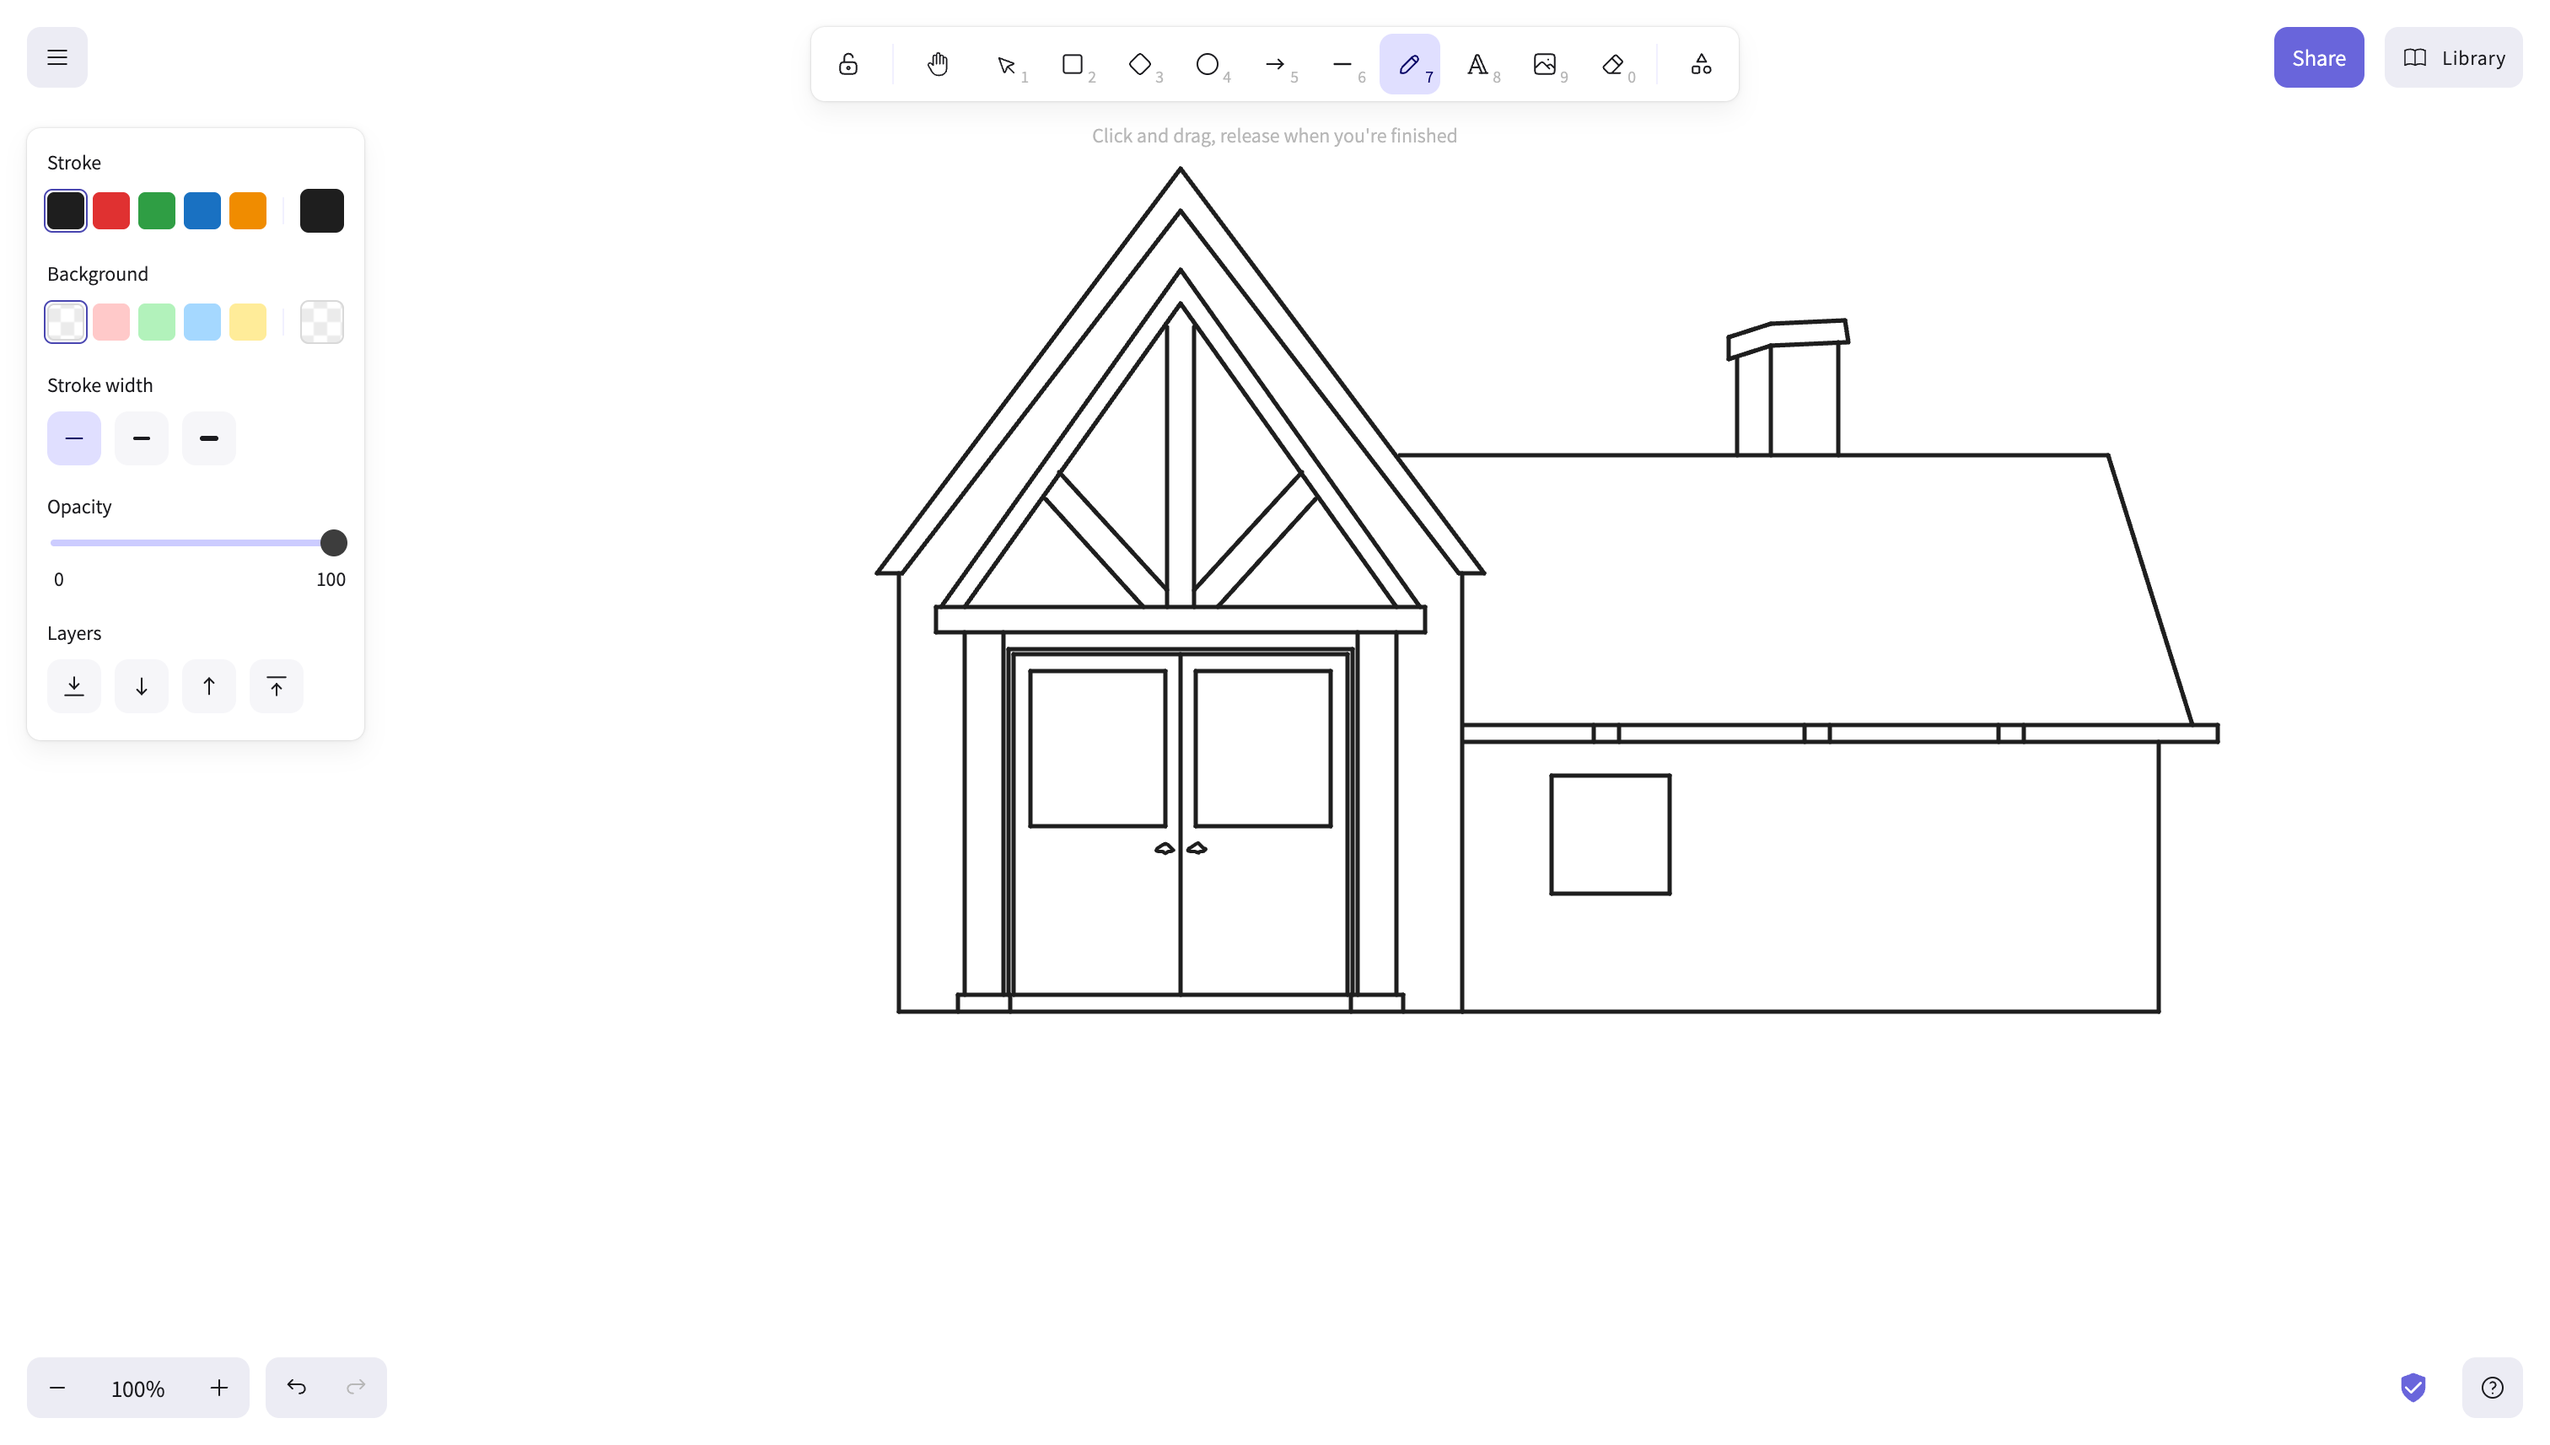
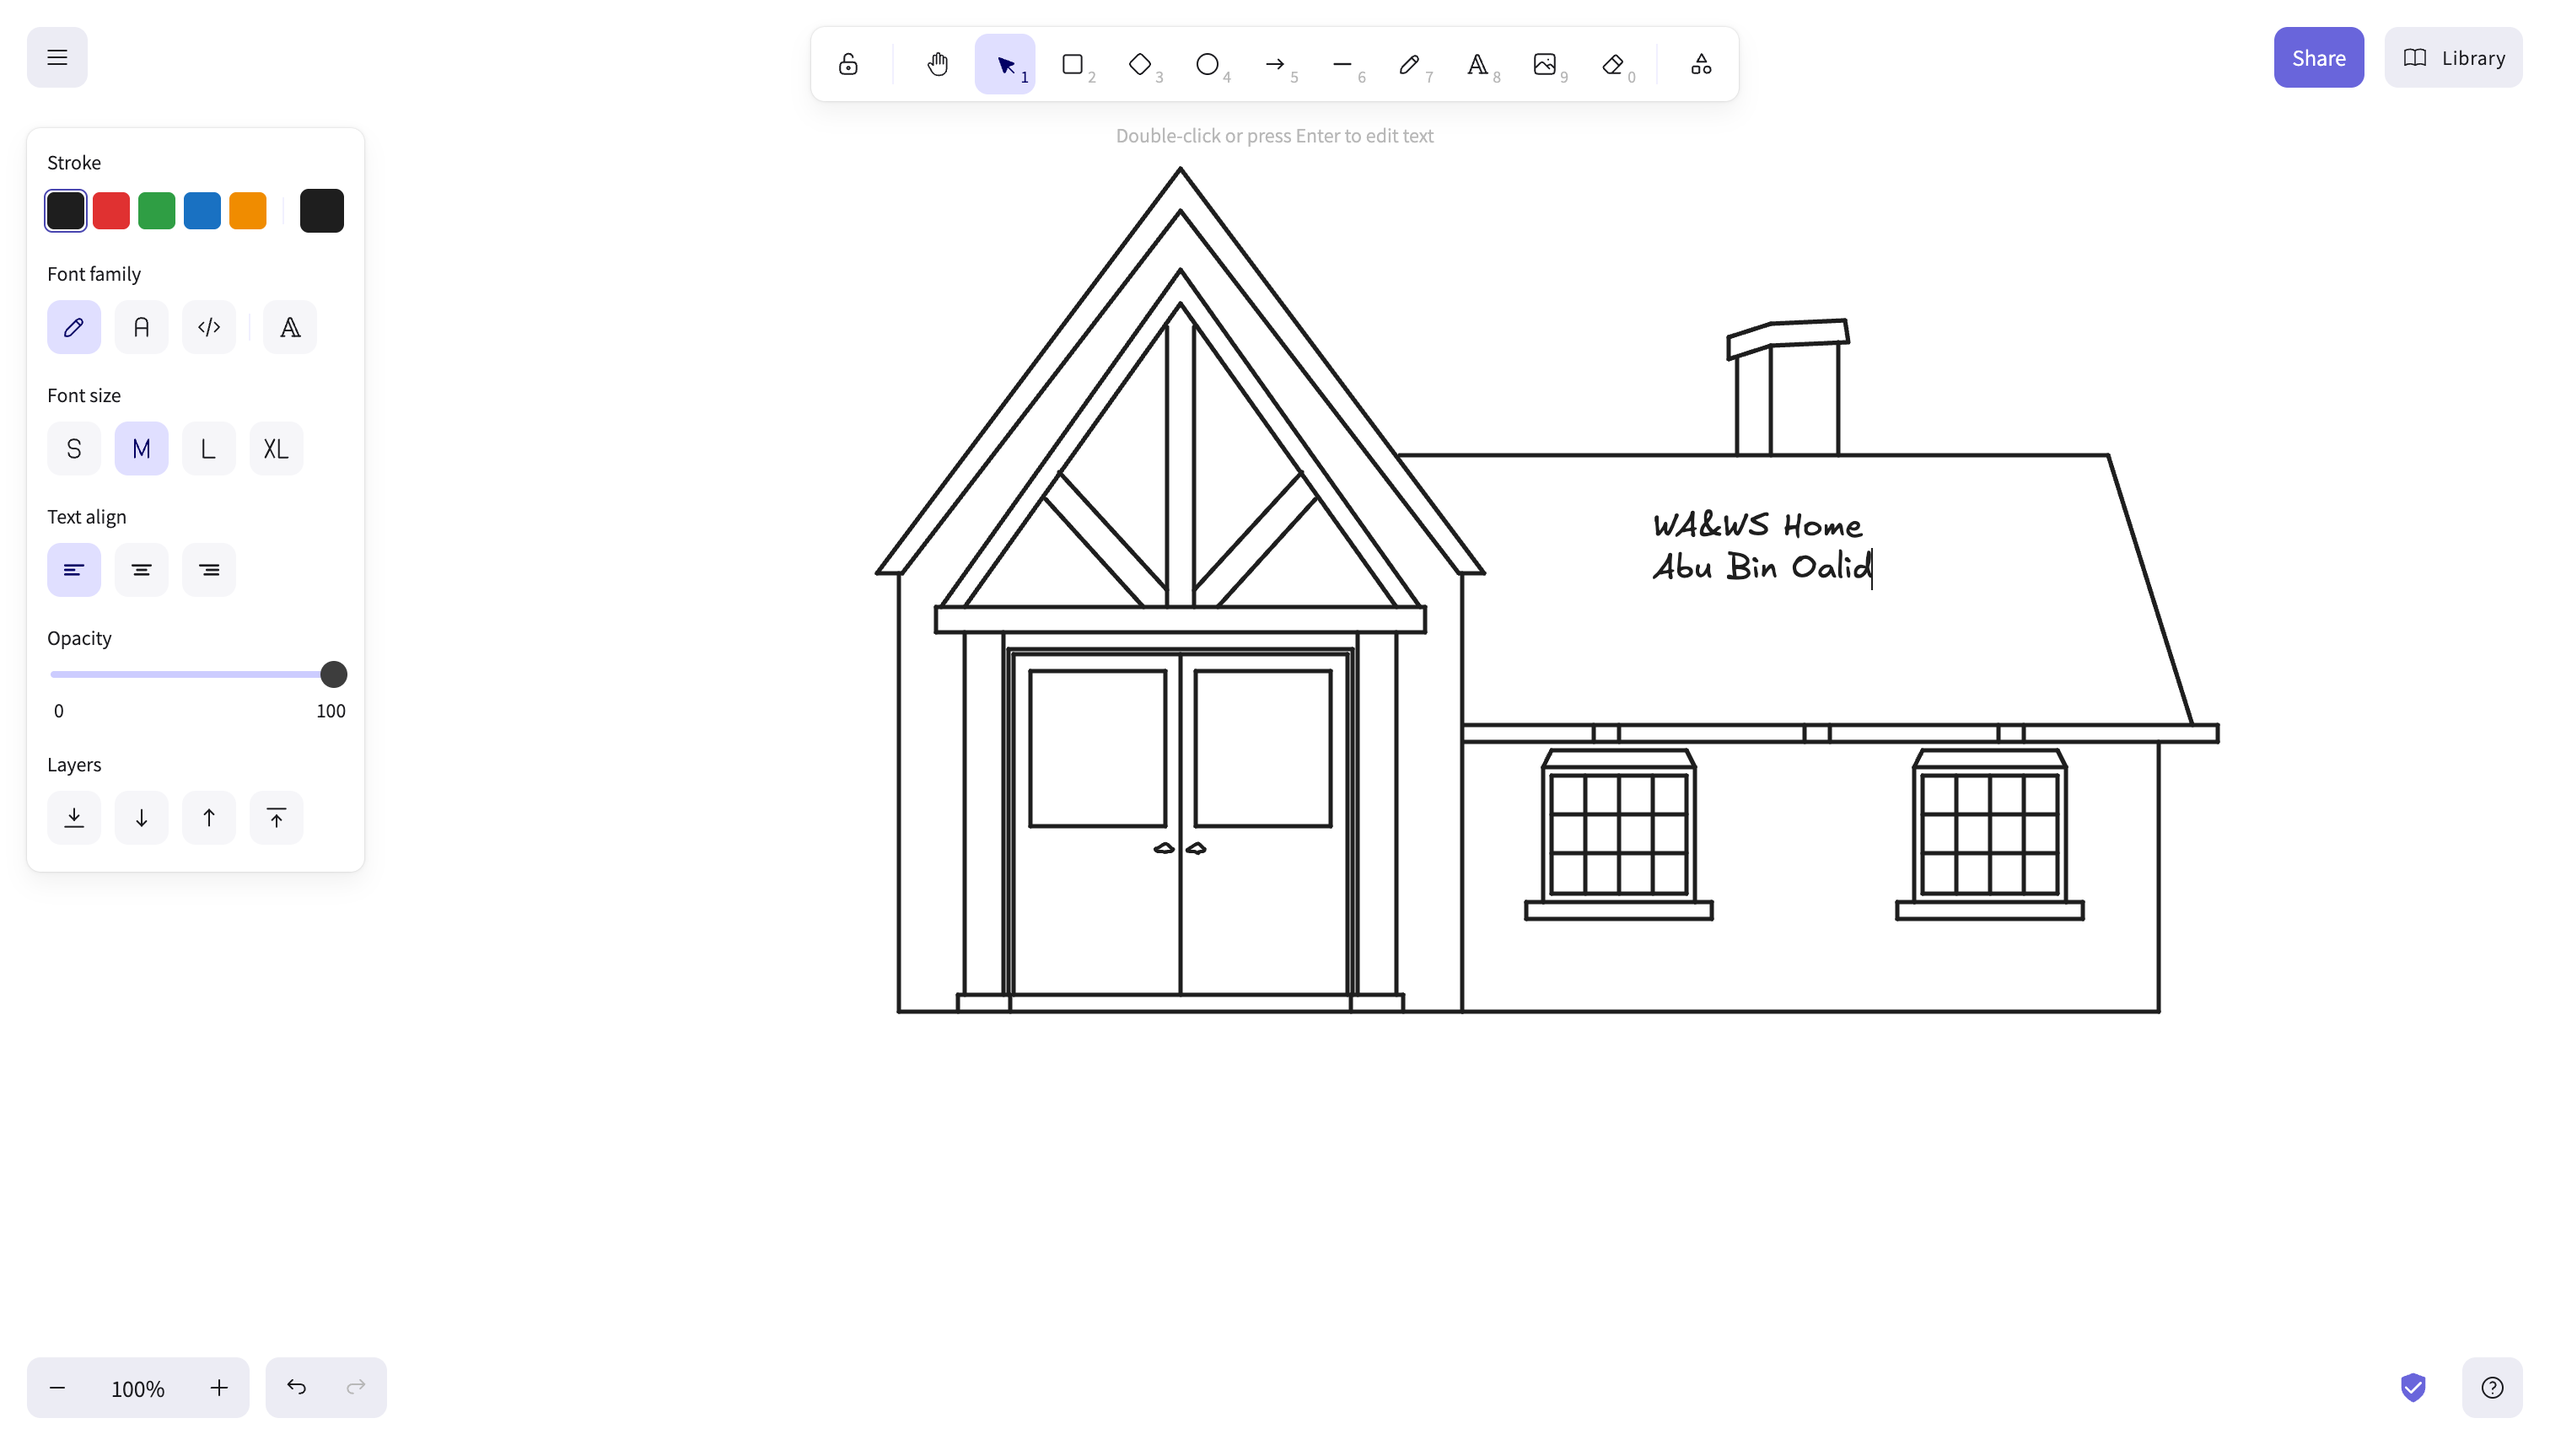
update house

diff --git a/house2.ts b/house2.ts
@@ -4,7 +4,7 @@ async function draw() {
     const openBrowser = true; // Set to false to run in headless mode
     const browser = await puppeteer.launch({
         headless: !openBrowser,
-        slowMo: (openBrowser) ? 0 : 0,
+        slowMo: (openBrowser) ? 100 : 0,
         args: [
             "--no-sandbox", 
             "--disable-setuid-sandbox",
@@ -23,7 +23,7 @@ async function draw() {
     // drawing a house
     const startX = 700;
     const startY = 100;
-    let drawSteps = (openBrowser) ? 1 : 1;
+    let drawSteps = (openBrowser) ? 5 : 1;
 
     let commonMoveOptions = {
         steps: drawSteps,
@@ -349,24 +349,20 @@ async function draw() {
     await page.mouse.up();
 
     //step 10
-
-    // await page.mouse.move(startX + 245, startY + 330, commonMoveOptions);
-    await page.mouse.move(startX + 220, startY + 360, commonMoveOptions);
-    await page.mouse.down();
-    await page.mouse.move(startX + 300, startY + 360, commonMoveOptions);
-    await page.mouse.up();
-    await page.mouse.down();
-    await page.mouse.move(startX + 300, startY + 430, commonMoveOptions);
-    await page.mouse.up();
-    await page.mouse.down();
-    await page.mouse.move(startX + 220, startY + 430, commonMoveOptions);
-    await page.mouse.up();
-    await page.mouse.down();
-    await page.mouse.move(startX + 220, startY + 360, commonMoveOptions);
-    await page.mouse.up();
-
-    await page.mouse.move(startX + 240, startY + 360, commonMoveOptions);
+    // window box
+    await windowBox(page, startX + 220, startX + 300, startY + 360, startY + 430, commonMoveOptions);
+    await windowBox(page, startX + 440, startX + 520, startY + 360, startY + 430, commonMoveOptions);
     
+
+    // press on text
+    await page.keyboard.press("8");
+    await page.mouse.move(startX + 280, startY + 200, commonMoveOptions);
+    await page.mouse.down();
+    await page.mouse.up();
+
+    await page.keyboard.type("WA&WS Home\nAbu Bin Oalid", {
+        delay: 100,
+    });
     
 
     await page.screenshot({ path: "house2.png" });
@@ -380,6 +376,96 @@ async function mouseUpDown(page: any) {
     await page.mouse.down();
     await page.mouse.up();
     
+}
+
+async function windowBox(page:any, startX: number, endX: number, startY: number, endY: number, commonMoveOptions: any) {
+
+    await page.mouse.move(startX-5, startY-5, commonMoveOptions);
+    await page.mouse.down();
+    await page.mouse.move(endX+5, startY-5, commonMoveOptions);
+    await page.mouse.up();
+    await page.mouse.down();
+    await page.mouse.move(endX+5, endY+5, commonMoveOptions);
+    await page.mouse.up();
+    await page.mouse.down();
+    await page.mouse.move(startX-5, endY+5, commonMoveOptions);
+    await page.mouse.up();
+    await page.mouse.down();
+    await page.mouse.move(startX-5, startY-5, commonMoveOptions);
+    await page.mouse.up();
+
+    await page.mouse.move(startX-5, endY+5, commonMoveOptions);
+    await page.mouse.down();
+    await page.mouse.move(startX-15, endY+5, commonMoveOptions);
+    await page.mouse.up();
+    await page.mouse.move(startX-15, endY+5, commonMoveOptions);
+    await page.mouse.down();
+    await page.mouse.move(startX-15, endY+15, commonMoveOptions);
+    await page.mouse.up();
+    await page.mouse.down();
+    await page.mouse.move(endX+15, endY+15, commonMoveOptions);
+    await page.mouse.up();
+    await page.mouse.down();
+    await page.mouse.move(endX+15, endY+5, commonMoveOptions);
+    await page.mouse.up();
+    await page.mouse.down();
+    await page.mouse.move(endX+5, endY+5, commonMoveOptions);
+    await page.mouse.up();
+
+    //window top start
+    await page.mouse.move(startX-5, startY-5, commonMoveOptions);
+    await page.mouse.down();
+    await page.mouse.move(startX, startY-15, commonMoveOptions);
+    await page.mouse.up();
+    await page.mouse.down();
+    await page.mouse.move(endX, startY-15, commonMoveOptions);
+    await page.mouse.up();
+    await page.mouse.down();
+    await page.mouse.move(endX+5, startY-5, commonMoveOptions);
+    await page.mouse.up();
+
+    //window top end
+    
+    await page.mouse.move(startX, startY, commonMoveOptions);
+    await page.mouse.down();
+    await page.mouse.move(endX, startY, commonMoveOptions);
+    await page.mouse.up();
+    await page.mouse.down();
+    await page.mouse.move(endX, endY, commonMoveOptions);
+    await page.mouse.up();
+    await page.mouse.down();
+    await page.mouse.move(startX, endY, commonMoveOptions);
+    await page.mouse.up();
+    await page.mouse.down();
+    await page.mouse.move(startX, startY, commonMoveOptions);
+    await page.mouse.up();
+
+    let diffX = 20;    
+    await page.mouse.move(startX + diffX, startY, commonMoveOptions);
+    await page.mouse.down();
+    await page.mouse.move(startX + diffX, endY, commonMoveOptions);
+    await page.mouse.up();
+
+    await page.mouse.move(startX + (diffX * 2), startY, commonMoveOptions);
+    await page.mouse.down();
+    await page.mouse.move(startX + (diffX * 2), endY, commonMoveOptions);
+    await page.mouse.up();
+
+    await page.mouse.move(startX + (diffX * 3), startY, commonMoveOptions);
+    await page.mouse.down();
+    await page.mouse.move(startX + (diffX * 3), endY, commonMoveOptions);
+    await page.mouse.up();
+
+    let diffY = 23;
+    await page.mouse.move(startX, startY + diffY, commonMoveOptions);
+    await page.mouse.down();
+    await page.mouse.move(endX, startY + diffY, commonMoveOptions);
+    await page.mouse.up();
+
+    await page.mouse.move(startX, startY + (diffY * 2), commonMoveOptions);
+    await page.mouse.down();
+    await page.mouse.move(endX, startY + (diffY * 2), commonMoveOptions);
+    await page.mouse.up();
 }
 
 await draw().catch((e) => {

diff --git a/ytt.ts b/ytt.ts
@@ -1,0 +1,11 @@
+import { YoutubeTranscript } from 'youtube-transcript';
+
+async function getTranscript(videoId) {
+  const transcript = await YoutubeTranscript.fetchTranscript(videoId, {lang: 'en'});
+
+  return transcript;
+  return transcript.map(entry => entry.text).join(' ');
+}
+
+// getTranscript('dQw4w9WgXcQ').then(console.log);
+getTranscript('https://www.youtube.com/watch?v=5MgBikgcWnY').then(console.log);
